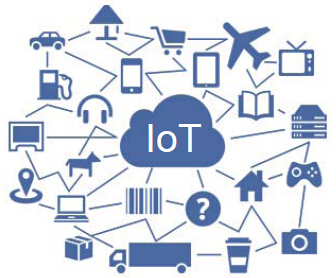
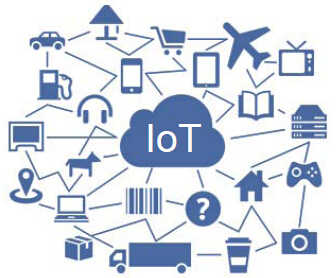
reduced quality of images

diff --git a/pages/projects.php b/pages/projects.php
@@ -108,7 +108,7 @@
             <div class="panel-heading">
               <div class="row">
                 <div class="col-lg-12">
-                  <img src="../img/projects/neuralNetworks1.png" class="img-rounded img-responsive" alt="image">
+                  <img src="../img/projects/neuralNetworks.png" class="img-rounded img-responsive" alt="image">
                 </div>
                 <div class="col-lg-12">
                 </div>
@@ -268,7 +268,7 @@
             <div class="panel-heading">
               <div class="row">
                 <div class="col-lg-12">
-                  <img src="../img/projects/accelerometer.jpeg" class="img-rounded img-responsive" alt="image">
+                  <img src="../img/projects/accelerometer.jpg" class="img-rounded img-responsive" alt="image">
                 </div>
                 <div class="col-lg-12">
                 </div>
